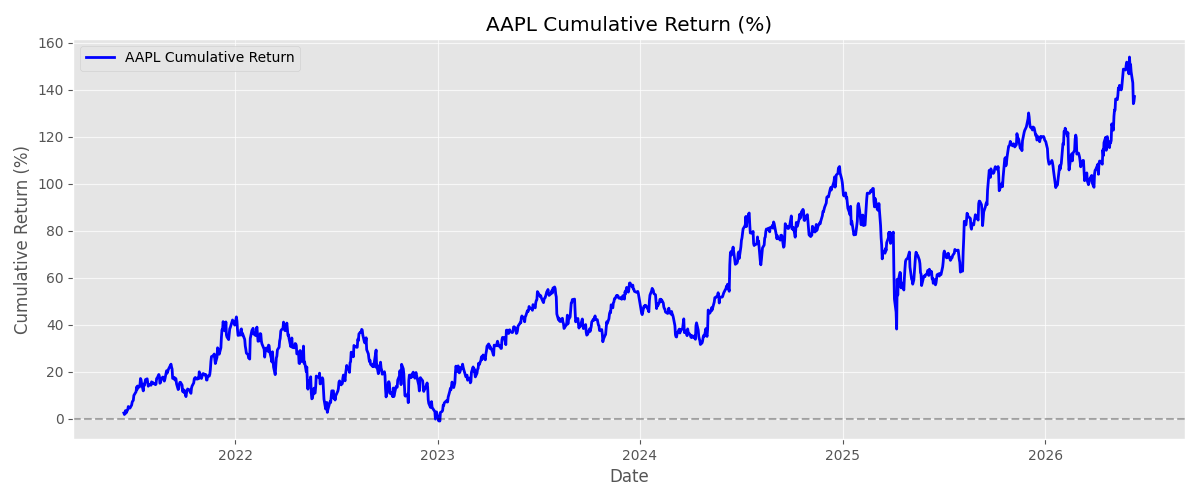
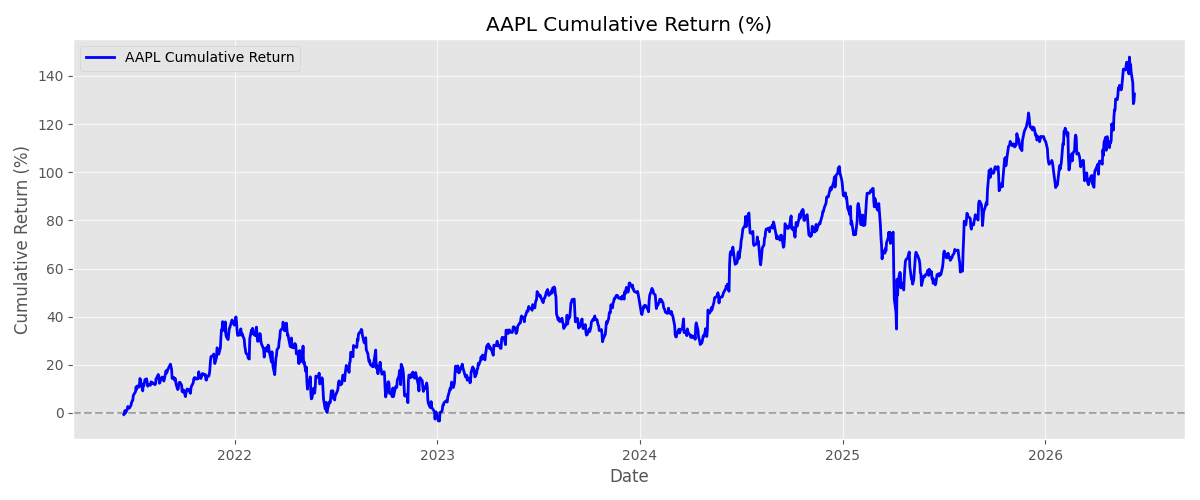
feat: complete stock analysis pipeline with Docker, CI/CD and Streamlit dashboard

diff --git a/main.py b/main.py
@@ -7,14 +7,17 @@ ticker = "AAPL"
 
 if __name__ == "__main__":
 
+    # Fetch data
     try: 
+        
         df = fetch_from_yahoo(ticker=ticker)
     
     except ValueError as e:
 
         print(f"Error: {e}")
-        exit(1)
+        exit(1) # stop if fails
 
+    # Save to database (optional, continue if fails)
     try:
         load_to_sql(df)
     except Exception as e:
@@ -22,9 +25,11 @@ if __name__ == "__main__":
 
     df_features = add_features(df)
     baseline_forecast(df_features)
-    plot_trend_volatility(df_features)
-    plot_returns(df_features)
-    plot_cumulative_return(df_features)
+    plot_trend_volatility(df)
+    plot_returns(df)
+    plot_cumulative_return(df)
+    
+    print("✅ Pipeline completed successfully")
 
 
 

diff --git a/src/fetch.py b/src/fetch.py
@@ -8,15 +8,11 @@ def fetch_from_yahoo (ticker:str = None) -> pd.DataFrame:
         if ticker is None:
                 raise ValueError("Please provide a ticker ")
         
-        try:
-                df = yf.download(ticker,period = '5Y')["Close"]
+        df = yf.download(ticker,period = '5Y')["Close"]
         
-        except Exception:
-
-                raise ValueError(f"No data found for {ticker}")
-        
+        # yf.download() return empty DataFrame for invaid ticker
         if df.empty:
-                raise ValueError (f"No price data found for {ticker}")
+                raise ValueError (f"No data found, symbol may be delisted {ticker}")
 
         df.index = df.index.tz_localize("UTC").tz_convert("Europe/London")
         print(f"✅ Fetched {ticker} | {len(df)} trading days")

diff --git a/src/db.py b/src/db.py
@@ -7,10 +7,13 @@ def load_to_sql (df:pd.DataFrame) :
     database_url = os.getenv("DATABASE_URL", 
                              "postgresql://postgres@localhost:5432/stock_db")
 
+
     engine = create_engine(database_url)
-    
+
     df = df.reset_index()
     df.columns = df.columns.str.lower()
     df.to_sql(name="stock",if_exists='replace', index= False, con= engine)
     print("✅ Connected to PostgreSQL and data saved")
+
+
 

diff --git a/src/features.py b/src/features.py
@@ -7,7 +7,6 @@ def add_features(df: pd.DataFrame) -> pd.DataFrame:
 
     for ticker in df.columns:
         df_feature[f"{ticker}_daily_return"] = df_feature[ticker].pct_change(periods=1).mul(100)
-        df_feature[f"{ticker}_return_lag1"] = df_feature[ticker].pct_change(periods=1).mul(100).shift(1)
         df_feature[f"{ticker}_weekly_return"] = df_feature[ticker].pct_change(periods=5).mul(100)
         df_feature[f"{ticker}_ma21"] = df_feature[ticker].rolling(window=21).mean()
         df_feature[f"{ticker}_vol21"] = df_feature[ticker].rolling(window=21).std()

diff --git a/README.md b/README.md
@@ -1,6 +1,7 @@
 # Stock Forecast Pipeline
 
-A containerized data pipeline that downloads stock data (AAPL, MSFT, GOOGL, JPM, SPY) from Yahoo Finance, stores it in PostgreSQL, and runs Python/SQL time-series analysis with forecasting capabilities.
+A containerised data pipeline that downloads stock data from Yahoo Finance, stores it in PostgreSQL, engineers time-series features, and serves a live Streamlit dashboard with forecasting signals.
+
 
 ## Live Demo
 
@@ -12,6 +13,30 @@ A containerized data pipeline that downloads stock data (AAPL, MSFT, GOOGL, JPM,
 ![Returns](outputs/AAPL_returns.png)
 ![Cumulative Return](outputs/AAPL_cumulative_return.png)
 
+## Key Findings
+- AAPL 5-year cumulative return: ~63%
+- Current signal: UP (price below MA21)
+- Average daily volatility tracked via 21-day rolling std
+
+## Project Structure
+
+```
+├── Dockerfile
+├── README.md
+├── app.py           # Streamlit dashboard
+├── docker-compose.yml
+├── main.py          # pipeline entry point
+├── requirements.txt
+├── sql
+│   └── analysis.sql # window functions, forecast signal
+└── src
+    ├── __init__.py
+    ├── db.py       # PostgreSQL connection
+    ├── features.py  # feature engineering (returns, MA, volatility)
+    ├── fetch.py     # yfinance data download
+    ├── model.py    # MA baseline forecast signal
+    └── visualise.py
+```
 ## Future Work
 
 - ARIMA/SARIMA time series forecasting
@@ -19,22 +44,27 @@ A containerized data pipeline that downloads stock data (AAPL, MSFT, GOOGL, JPM,
 
 ## Tech
 
-Python / PostgreSQL / Docker
+- Python (pandas, numpy, yfinance, sqlalchemy)
+- PostgreSQL
+- Docker
+- Streamlit
+- GitHub Actions (CI/CD)
 
 ## Quick Start
 
 ```bash
 git clone https://github.com/aguchhait-stack/stock-forecast-pipeline.git
 cd stock-forecast-pipeline
+cp .env.example .env
 docker-compose up
-
-# Run the dashboard
 streamlit run app.py
 ```
 
-## 📄 License
+## 📄 License & Acknowledgments
 
-MIT License — free to use, modify, and distribute.
+MIT License
+
+**AI assistance:** Claude (Anthropic) and DeepSeek for CI/CD, code review, and debugging.
 
 ---
 